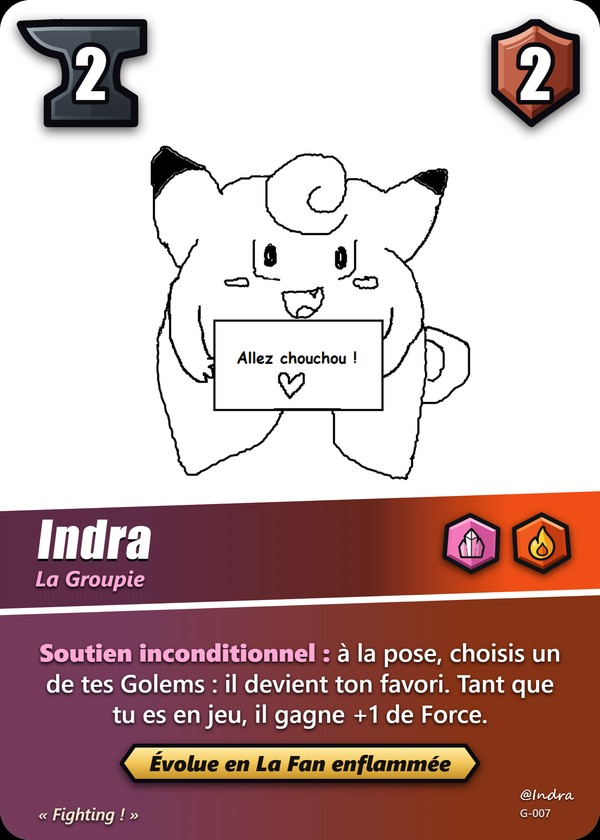
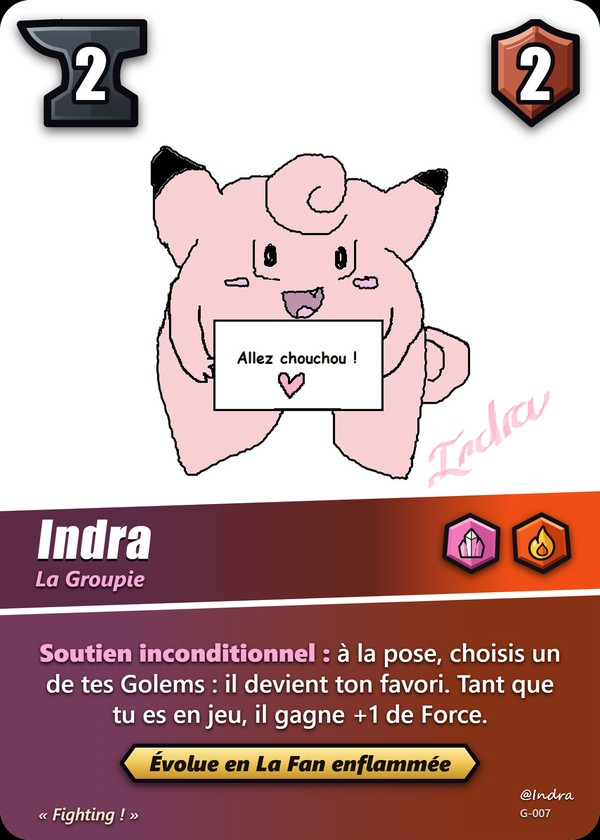
Nouvelles illustrations d'Indra (base et évolution) ; spectateur : la case Dernière carte jouée affiche la bonne carte

Changed region(s): [[0.24, 0.1857, 0.78, 0.5881], [0.72, 0.4643, 0.93, 0.5881]]

diff --git a/spectateur-ui.js b/spectateur-ui.js
@@ -124,7 +124,7 @@ function peindreSalon(etat){
 /* ---------- Partie ---------- */
 const nomJoueur=(E,p)=>E.noms&&E.noms[p]||'Joueur '+(p+1);
 function avatarJoueur(E,p){const n=nomJoueur(E,p),u=E.uids&&E.uids[p];return u&&typeof avatarUid==='function'?avatarUid(n,u,E.avatars&&E.avatars[p]||''):avatarDe(n,E.avatars&&E.avatars[p]||'')}
-/* etatPartie : etat du moteur (s), ou {etat:s, noms:[j0,j1], avatars:[..], uids:[..], derniere:{c,p}} */
+/* etatPartie : etat du moteur (s), ou {etat:s, noms:[j0,j1], avatars:[..], uids:[..], derniere:{id:type,p} ou {c:numero de carte,p}} */
 function lisEntree(x){
   if(!x)return null;
   if(x.etat&&x.etat.j){
@@ -139,7 +139,7 @@ function derniereDuLog(s){
   if(typeof NOMS_LOG==='undefined')return null;
   for(let i=s.log.length-1;i>=0;i--){const[p,x]=s.log[i];if(p===null||!/^(pose|remplace|améliore) /.test(x))continue;
     const m=[...x.matchAll(NOMS_LOG.re)].map(z=>NOMS_LOG.m.get(z[0])).filter(o=>o&&o.C);
-    if(m.length)return {c:m[m.length-1].C.id,p,id:true}}
+    if(m.length)return {id:m[m.length-1].C.id,p}} /* id = identifiant de TYPE ('008'), pas un numero de carte de partie */
   return null;
 }
 function camp(E,s,p,haut){
@@ -166,6 +166,15 @@ function detailMain(C){
   if(C.texte)a.append(mk('p','',C.texte));return [a];
 }
 function zoomMain(c){const C=M.carte(c);cacheApercu();zoom(srcC(c),C.nom,detailMain(C))}
+/* Zoom par identifiant de type : si la carte est en jeu chez son joueur, meme zoom que sa case (detail de Force), sinon detail de la carte */
+function zoomId(id,p){
+  const C=M.CARTES[id];if(!C)return;cacheApercu();
+  const s=dernierEtat&&dernierEtat.etat;
+  if(s&&p!=null&&s.j[p]){const G=s.j[p].grille;
+    for(let l=0;l<G.length;l++)for(let k=0;k<G[l].length;k++){const v=G[l][k];
+      if(v&&M.carte(v.c).id===id){const b=document.querySelector('#partie .p-case[data-p="'+p+'"][data-l="'+l+'"][data-k="'+k+'"]');if(b&&b.onclick){b.onclick();return}}}}
+  zoom('cartes/'+id+'.jpg',C.nom,detailMain(C));
+}
 function main(E,s,p,cl,ap){
   const m=mk('div','p-main sp-main '+cl);
   /* Une seule ligne : au-dela de 5 cartes, elles retrecissent */
@@ -174,7 +183,7 @@ function main(E,s,p,cl,ap){
     const C=M.carte(c),z=mk('div','p-slot'),b=mk('button','p-carte'),i=mk('img');
     b.type='button';i.src=srcC(c);i.alt=C.nom;b.append(i);b.setAttribute('aria-label','Agrandir '+M.nomDetail(C));b.onclick=()=>zoomMain(c);
     z.dataset.c=c;z.append(b);
-    z.onmouseenter=()=>{if(ap&&ap.offsetParent&&SURVOL.matches)montre(ap,c,'Aperçu');else montreApercu(z,srcC(c))};
+    z.onmouseenter=()=>{if(ap&&ap.offsetParent&&SURVOL.matches)montre(ap,M.carte(c).id,'Aperçu',null);else montreApercu(z,srcC(c))};
     z.onmouseleave=()=>{cacheApercu();if(ap)montreDerniere(ap)};
     m.append(z)});
   return m;
@@ -183,16 +192,20 @@ function titreMain(E,s,p,cl){
   const h=mk('div','sp-tmain '+cl),n=s.j[p].main.length,c=mk('span','p-compteur');
   c.append(mk('b','',String(n)),n>1?'cartes':'carte');h.append(mk('b','','Main de '+nomJoueur(E,p)),c);return h;
 }
-function montre(ap,c,leg){
-  const im=ap.querySelector('img'),l=ap.querySelector('.p-ap-leg');
-  if(c==null){delete ap.dataset.c;ap.classList.add('vide');im.hidden=true;l.textContent='Aucune carte jouée pour le moment.';return}
-  ap.dataset.c=c;ap.classList.remove('vide');im.hidden=false;const src=srcC(c);if(im.getAttribute('src')!==src)im.src=src;im.alt=M.carte(c).nom;l.textContent=leg;
+/* id : identifiant de TYPE de carte ('008'), image cartes/<id>.jpg ; p : joueur qui l'a jouee (zoom sur sa case en jeu) */
+function montre(ap,id,leg,p){
+  const im=ap.querySelector('img'),l=ap.querySelector('.p-ap-leg'),C=id!=null?M.CARTES[id]:null;
+  if(!C){delete ap.dataset.id;delete ap.dataset.p;ap.classList.add('vide');im.hidden=true;l.textContent='Aucune carte jouée pour le moment.';return}
+  ap.dataset.id=id;if(p!=null)ap.dataset.p=p;else delete ap.dataset.p;
+  ap.classList.remove('vide');im.hidden=false;const src='cartes/'+id+'.jpg';if(im.getAttribute('src')!==src)im.src=src;im.alt=C.nom;l.textContent=leg;
 }
 function montreDerniere(ap){
   const E=dernierEtat;if(!E)return;
   const d=E.derniere;
-  if(!d||d.c==null){montre(ap,null);return}
-  montre(ap,d.c,'Dernière carte jouée par '+nomJoueur(E,d.p));
+  /* derniere : {id:type} (journal) ou {c:numero de carte de partie} (fourni) */
+  const id=d?(d.id!=null?d.id:d.c!=null?M.carte(d.c).id:null):null;
+  if(id==null){montre(ap,null);return}
+  montre(ap,id,'Dernière carte jouée par '+nomJoueur(E,d.p),d.p);
 }
 function journal(E,s){
   const jo=mk('details','p-journal'),li=mk('div','p-lignes'),su=mk('summary','','Journal');
@@ -232,7 +245,7 @@ function peindrePartieSpectateur(etatPartie){
   plat.append(camp(E,s,haut,true),gh,terrains(s,cols,haut,bas),gb,camp(E,s,bas,false));
   /* Colonne centrale : main du haut, derniere carte jouee, main du bas */
   const ap=mk('div','p-apercu'),fi=mk('div','p-ap-img'),im=mk('img');im.alt='';fi.append(im);ap.append(mk('p','p-ap-leg'),fi);
-  ap.onclick=()=>{if(ap.dataset.c===undefined)return;zoomMain(ap.dataset.c)};
+  ap.onclick=()=>{if(ap.dataset.id===undefined)return;zoomId(ap.dataset.id,ap.dataset.p!==undefined?+ap.dataset.p:null)};
   const mh=[titreMain(E,s,haut,'lui'),main(E,s,haut,'lui',ap)],mb=[titreMain(E,s,bas,'toi'),main(E,s,bas,'toi',ap)];
   if(s.fin)pl.append(finBloc(E,s));
   if(LARGE.matches){pl.append(...mh,ap,...mb)}
